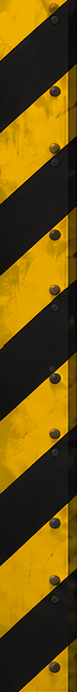
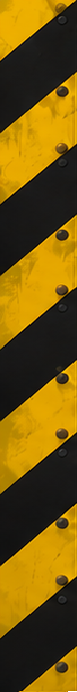
Updated Button Images

diff --git a/source/main.py b/source/main.py
@@ -1,6 +1,6 @@
 import sys
 from PyQt5.QtWidgets import QWidget, QPushButton, QFrame, QVBoxLayout, QApplication
-from PyQt5.QtGui import QPainter, QColor, QPolygon, QPen, QTransform
+from PyQt5.QtGui import QPainter, QColor, QPolygon, QPen, QBrush, QTransform, QLinearGradient
 from PyQt5.QtCore import Qt, QTimer, QPoint
 
 from settings import Settings
@@ -48,19 +48,19 @@ class Program(QWidget):
         self.target_position_label = TargetLabel(self)
 
         self.fire_button = FireButton(self)
-        self.fire_button.move(FIRE_BUTTON_X, GROUND_Y + BUTTON_DEPTH)
+        self.fire_button.move(FIRE_BUTTON_X, GROUND_Y)
         self.fire_button.clicked.connect(self.fire_cannon)
 
         self.pause_button = PauseButton(self)
-        self.pause_button.move(PAUSE_BUTTON_X, GROUND_Y + BUTTON_DEPTH)
+        self.pause_button.move(PAUSE_BUTTON_X, BUTTON_Y)
         self.pause_button.clicked.connect(self.switch_paused)
 
         self.reset_button = ResetButton(self)
-        self.reset_button.move(RESET_BUTTON_X, GROUND_Y + BUTTON_DEPTH)
+        self.reset_button.move(RESET_BUTTON_X, BUTTON_Y)
         self.reset_button.clicked.connect(self.reset)
 
         self.timeline = Timeline(self)
-        self.timeline.move(900, GROUND_Y + BUTTON_DEPTH)
+        self.timeline.move(TIMELINE_X, BUTTON_Y)
 
         self.velocity_slider = VelocitySlider(self)
         self.velocity_slider.move(50, 200)
@@ -197,6 +197,7 @@ class Program(QWidget):
         self.update_max_time()
 
     def reset(self):
+        self.clear()
         self.settings.reset()
         self.timeline.update_value()
         self.velocity_slider.update_value()
@@ -206,7 +207,6 @@ class Program(QWidget):
         self.cannon_barrel.update_angle()
         for setting_window in self.setting_windows.values():
             setting_window.update_information()
-        self.clear()
 
     def clear(self):
         for cannon in self.cannonballs:
@@ -243,8 +243,19 @@ class Program(QWidget):
         background = self.background_image.scaled(WINDOW_WIDTH - WALL_WIDTH, WINDOW_HEIGHT - GROUND_HEIGHT, Qt.IgnoreAspectRatio, Qt.SmoothTransformation)
         painter.drawPixmap(0, 0, wall)
         painter.drawPixmap(WALL_WIDTH, 0, background)
-        painter.fillRect(WALL_WIDTH, GROUND_Y, CANNON_WIDTH + 50, GROUND_HEIGHT, QColor(*VERTICAL_SHAFT_COLOR))
-        painter.fillRect(WALL_WIDTH + CANNON_WIDTH + 50, GROUND_Y, WINDOW_WIDTH, GROUND_HEIGHT, QColor(*GROUND_COLOR))
+
+        vertical_shaft_gradient = QLinearGradient(WALL_WIDTH, GROUND_Y, WALL_WIDTH + CANNON_WIDTH + 50, GROUND_Y)
+        vertical_shaft_gradient.setColorAt(0.0, QColor(*VERTICAL_SHAFT_EDGE_COLOR))
+        vertical_shaft_gradient.setColorAt(0.5, QColor(*VERTICAL_SHAFT_MIDDLE_COLOR))
+        vertical_shaft_gradient.setColorAt(1.0, QColor(*VERTICAL_SHAFT_EDGE_COLOR))
+        vertical_shaft_brush = QBrush(vertical_shaft_gradient)
+        painter.fillRect(WALL_WIDTH, GROUND_Y, CANNON_WIDTH + 50, GROUND_HEIGHT, vertical_shaft_brush)
+
+        ground_gradient = QLinearGradient(0, GROUND_Y, 0, WINDOW_HEIGHT)
+        ground_gradient.setColorAt(0.0, QColor(*GROUND_TOP_COLOR))
+        ground_gradient.setColorAt(1.0, QColor(*GROUND_BOTTOM_COLOR))
+        ground_brush = QBrush(ground_gradient)
+        painter.fillRect(WALL_WIDTH + CANNON_WIDTH + 50, GROUND_Y, WINDOW_WIDTH, GROUND_HEIGHT, ground_brush)
 
         for cannonball in self.cannonballs:
             if self.settings.showing_trajectory:
@@ -307,7 +318,6 @@ class Program(QWidget):
                     painter.drawPixmap(int(cannonball.x() + cannonball.width() / 2 - total_acceleration_arrow.width()),
                                        int(cannonball.y() + cannonball.height() / 2),
                                        total_acceleration_arrow)
-
 
         painter.end()
 

diff --git a/source/constants.py b/source/constants.py
@@ -4,11 +4,13 @@ WINDOW_HEIGHT = 1400
 PIXELS_PER_METRE = 5
 FRAME_INTERVAL = 0.01
 
-WALL_WIDTH = 200
+WALL_WIDTH = 175
 GROUND_HEIGHT = 300
 GROUND_Y = WINDOW_HEIGHT - GROUND_HEIGHT
-VERTICAL_SHAFT_COLOR = (50, 50, 50)
-GROUND_COLOR = (100, 50, 0)
+VERTICAL_SHAFT_EDGE_COLOR = (50, 50, 50)
+VERTICAL_SHAFT_MIDDLE_COLOR = (80, 80, 80)
+GROUND_TOP_COLOR = (150, 100, 50)
+GROUND_BOTTOM_COLOR = (100, 50, 0)
 
 CANNON_BASE_LENGTH = 175
 CANNON_BASE_HEIGHT = 64
@@ -27,13 +29,14 @@ VELOCITY_ARROW_SCALE = 10
 ACCELERATION_ARROW_SCALE = 10
 
 #Button Layout
-BUTTON_DEPTH = 20
-FIRE_BUTTON_X = 100
-FIRE_BUTTON_SIZE = (200, 100)
-RESET_BUTTON_X = 400
-RESET_BUTTON_SIZE = (200, 100)
-PAUSE_BUTTON_X = 700
-PAUSE_BUTTON_SIZE = (100, 100)
+BUTTON_Y = GROUND_Y + 20
+FIRE_BUTTON_X = 15
+FIRE_BUTTON_SIZE = (145, 145)
+RESET_BUTTON_X = WALL_WIDTH + CANNON_WIDTH + 125
+RESET_BUTTON_SIZE = (115, 115)
+PAUSE_BUTTON_X = WALL_WIDTH + CANNON_WIDTH + 300
+PAUSE_BUTTON_SIZE = (115, 115)
+TIMELINE_X = WALL_WIDTH + CANNON_WIDTH + 500
 
 #Setting Window Sizes
 SETTING_WINDOW_SIZES = {

diff --git a/source/buttons.py b/source/buttons.py
@@ -22,7 +22,7 @@ class Button(QPushButton):
 
         self.setIcon(QIcon(self.image))
         self.setIconSize(self.image.size())
-        self.setFixedSize(self.image.width() + 6, self.image.height() + 6)
+        self.setFixedSize(self.image.size())
         self.setCursor(Qt.PointingHandCursor)
         self.setStyleSheet("""
             QPushButton {
@@ -71,8 +71,8 @@ class FireButton(Button):
     
 
 class PauseButton(Button):
-    image_paths = {'playing': 'pause_button_paused.png',
-                   'paused': 'pause_button_playing.png'}
+    image_paths = {'playing': 'pause_button_playing.png',
+                   'paused': 'pause_button_paused.png'}
     initial_image = 'playing'
     size = PAUSE_BUTTON_SIZE
 

diff --git a/source/target.py b/source/target.py
@@ -47,7 +47,7 @@ class Target(QLabel):
             self.setCursor(Qt.OpenHandCursor)
 
     def update_position(self):
-        x = WALL_WIDTH + self.settings.target_distance * PIXELS_PER_METRE - self.width() // 2
+        x = WALL_WIDTH + CANNON_WIDTH + self.settings.target_distance * PIXELS_PER_METRE - self.width() // 2
         y = self.program.height() - GROUND_HEIGHT - self.settings.target_height * PIXELS_PER_METRE - self.height() // 2
         self.move(int(x), int(y))
 
